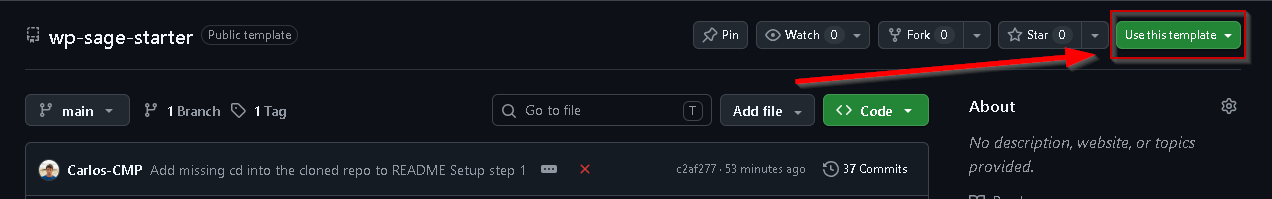
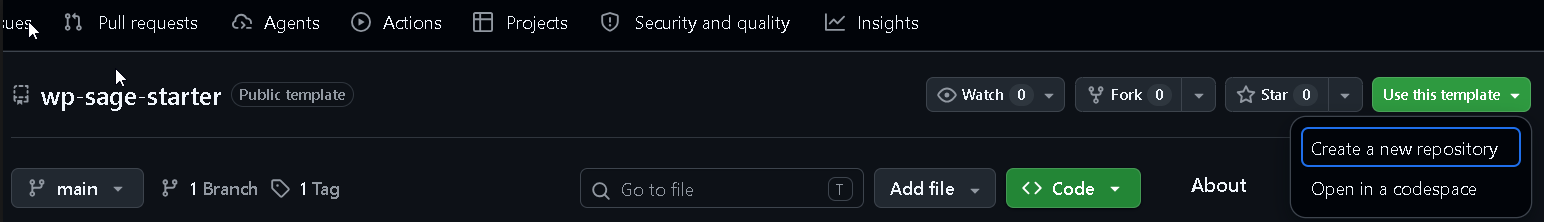
Restructure README setup steps and add domain/port screenshots
Splits creating the LocalWP site into its own step, and shows exactly
where to find the site domain and MySQL port in Local's UI (Overview
and Database tabs) instead of only describing it in text. Trimmed
step 1 to just the template-creation click and refreshed its
screenshot to the actual dropdown.

diff --git a/README.md b/README.md
@@ -1,61 +1,70 @@
 # WordPress Sage Starter
 
-Starter de WordPress reutilizable para sitios de marketing, construido con Bedrock, Sage, Tailwind CSS, Gutenberg y ACF Free.
-
-Este starter es una plantilla de origen. Los proyectos generados evolucionan de forma independiente.
+Starter de WordPress basado en Bedrock, Sage, Tailwind CSS, Gutenberg y ACF Free.
 
 ## Requisitos
 
 - PHP >= 8.3
 - Composer >= 2.x
-- Node.js
-- WP-CLI disponible en el PATH
+- Node.js >= 20.19.0
+- WP-CLI disponible en el `PATH`
 - Git
 
-Los scripts resuelven estas herramientas desde el PATH. Si alguna no está en el PATH, o necesitas fijar una instalación concreta, define la variable de entorno correspondiente con su ruta ejecutable en vez de editar ningún script: `STARTER_PHP`, `STARTER_COMPOSER`, `STARTER_WP_CLI`, `STARTER_GIT`, `STARTER_NODE`, `STARTER_NPM`.
+Los scripts resuelven estas herramientas desde el `PATH`. Si necesitas fijar una instalación concreta, define la variable de entorno correspondiente:
+
+- `STARTER_PHP`
+- `STARTER_COMPOSER`
+- `STARTER_WP_CLI`
+- `STARTER_GIT`
+- `STARTER_NODE`
+- `STARTER_NPM`
 
 ## Instalación
 
-1. Crea tu propia copia de este repo bajo tu cuenta, y luego entra en ella con `cd`:
+1. Crea un repositorio desde la plantilla.
 
-   - **Web**: en [la página de GitHub de este repo](https://github.com/Carlos-CMP/wp-sage-starter), pulsa **Use this template**, y luego clona *tu nuevo repo* (no este):
+   Desde GitHub, abre el repositorio plantilla y pulsa **Use this template**.
 
-     ![Botón "Use this template" en la página de GitHub del repo](docs/images/paso1.png)
+   ![Botón "Use this template" en GitHub](docs/images/paso1.png)
 
-     ```powershell
-     git clone https://github.com/<tu-cuenta>/<tu-nuevo-repo>.git
-     cd <tu-nuevo-repo>
-     ```
-   - **GitHub CLI** (requiere [`gh`](https://cli.github.com/), aparte de Git): hace ambos pasos a la vez —
-
-     ```powershell
-     gh repo create <tu-cuenta>/<tu-nuevo-repo> --template Carlos-CMP/wp-sage-starter --clone
-     cd <tu-nuevo-repo>
-     ```
-2. Comprueba los requisitos:
+2. Una vez clonado, ejecuta el script de requisitos para la instalación.
 
    ```powershell
    .\scripts\doctor.ps1
    ```
-3. Apunta LocalWP a este repo (requiere tener ya un sitio de LocalWP creado con WordPress instalado — `<nombre-de-tu-sitio-local>` es como lo hayas llamado en Local):
+
+   Cualquier `ERROR` requiere solucionarlo antes de continuar con la instalación.
+
+3. Crea o abre un sitio en LocalWP con WordPress instalado.
+
+4. Apunta LocalWP a este repositorio.
 
    ```powershell
    .\scripts\link-localwp.ps1 -LocalSitePath "$env:USERPROFILE\Local Sites\<nombre-de-tu-sitio-local>"
    ```
-4. Instala y configura el proyecto (los tres valores son de ejemplo, no los copies tal cual — `-DbHost` en concreto es el puerto de MySQL de *tu* sitio, distinto en cada sitio de Local: pestaña **Database** del sitio en Local, o `dbHost` en la salida de `doctor.ps1 -Json`):
+
+5. Instala y configura el proyecto.
+
+   Usa el dominio del sitio:
+
+   ![Dominio del sitio en LocalWP](docs/images/site-domain.png)
+
+   Usa el puerto de la base de datos:
+
+   ![Puerto de la base de datos en LocalWP](docs/images/port.png)
 
    ```powershell
    .\scripts\new-project.ps1 -ProjectName "<nombre-de-tu-proyecto>" -Domain "<tu-dominio-local>" -DbHost "127.0.0.1:<puerto-mysql-de-tu-sitio>"
    ```
-   Usa `-Domain "localhost:<puerto>"` si el sitio está en modo de enrutado "localhost" de LocalWP. Claves de `.env`: consulta `.env.example`.
-5. Comprobación final:
+
+6. Valida la instalación.
 
    ```powershell
    .\scripts\validate.ps1
    ```
 
-Otros comandos: `.\scripts\wp.ps1 --info` (WP-CLI), `.\scripts\seed-demo-content.ps1` (resembrar la home de demo).
-
 ## Arquitectura
+
+Consulta el diagrama técnico:
 
 https://carlos-cmp.github.io/wp-sage-starter/runtime-architecture/runtime-architecture.html
